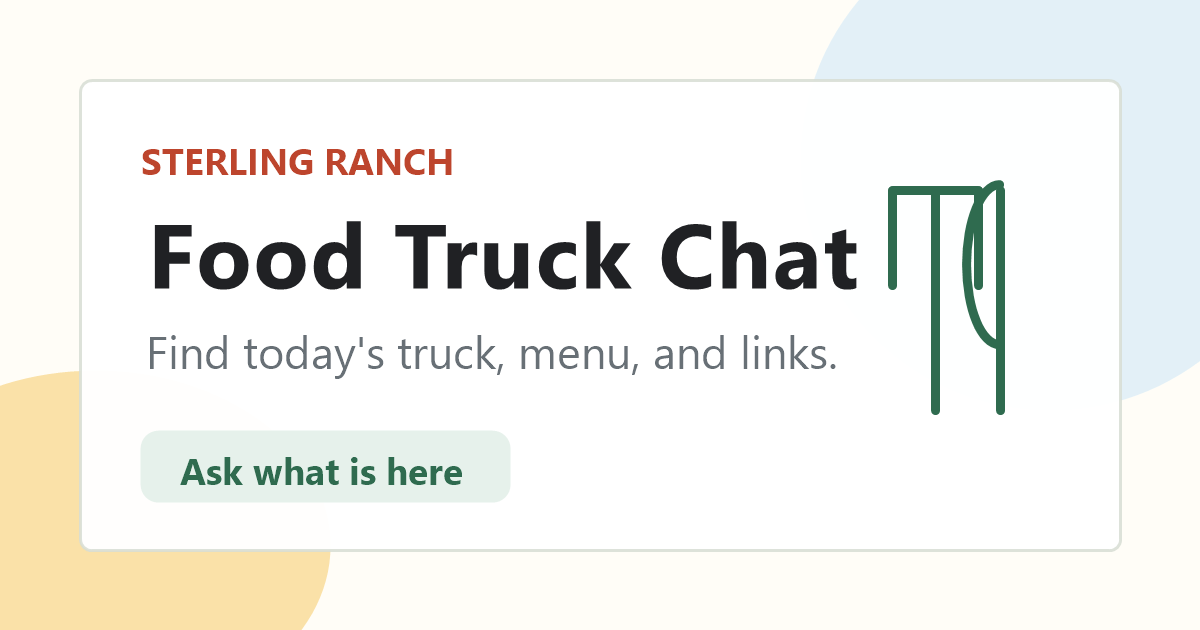
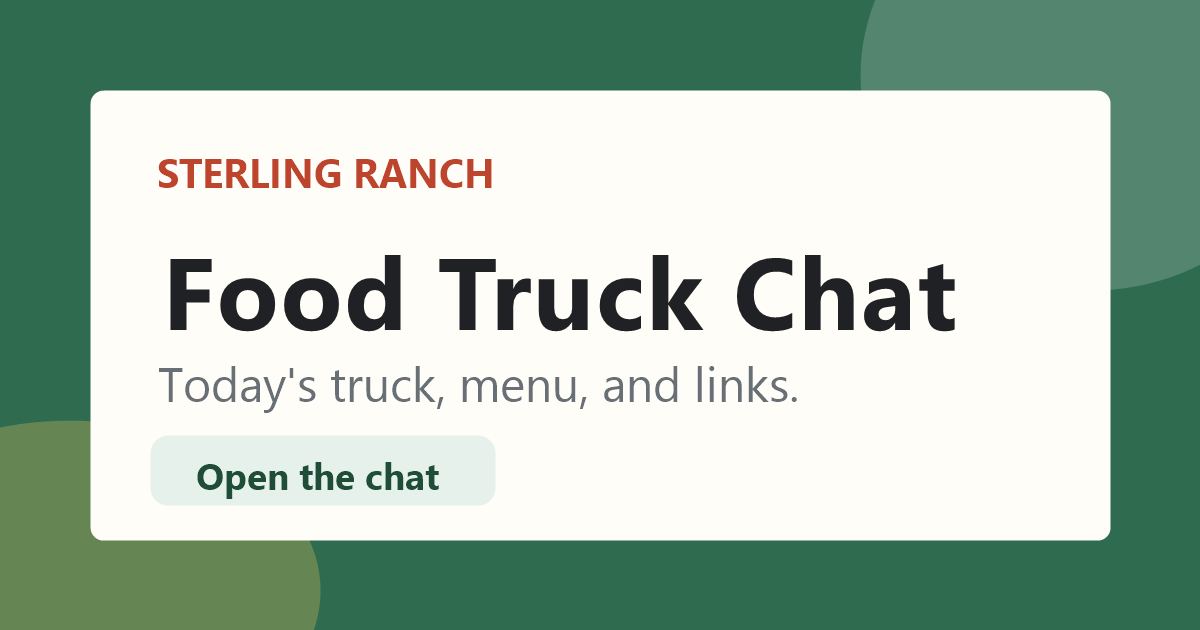
Use saved menu items only as fallback

diff --git a/server.js b/server.js
@@ -1206,7 +1206,7 @@ async function getMenuForTruck(truckName) {
     ...menuLinks,
     ...featuredLinks.allResults,
   ]).slice(0, 8);
-  const menuItems = [...(featuredLinks.knownItems || [])];
+  const menuItems = [];
   let menuSourceUrl = "";
 
   if (menuItems.length === 0) {
@@ -1254,6 +1254,11 @@ async function getMenuForTruck(truckName) {
         break;
       }
     }
+  }
+
+  if (menuItems.length === 0 && featuredLinks.knownItems?.length) {
+    menuItems.push(...featuredLinks.knownItems);
+    menuSourceUrl = featuredLinks.knownItems[0].url || menuSourceUrl;
   }
 
   if (menuSourceUrl) {
